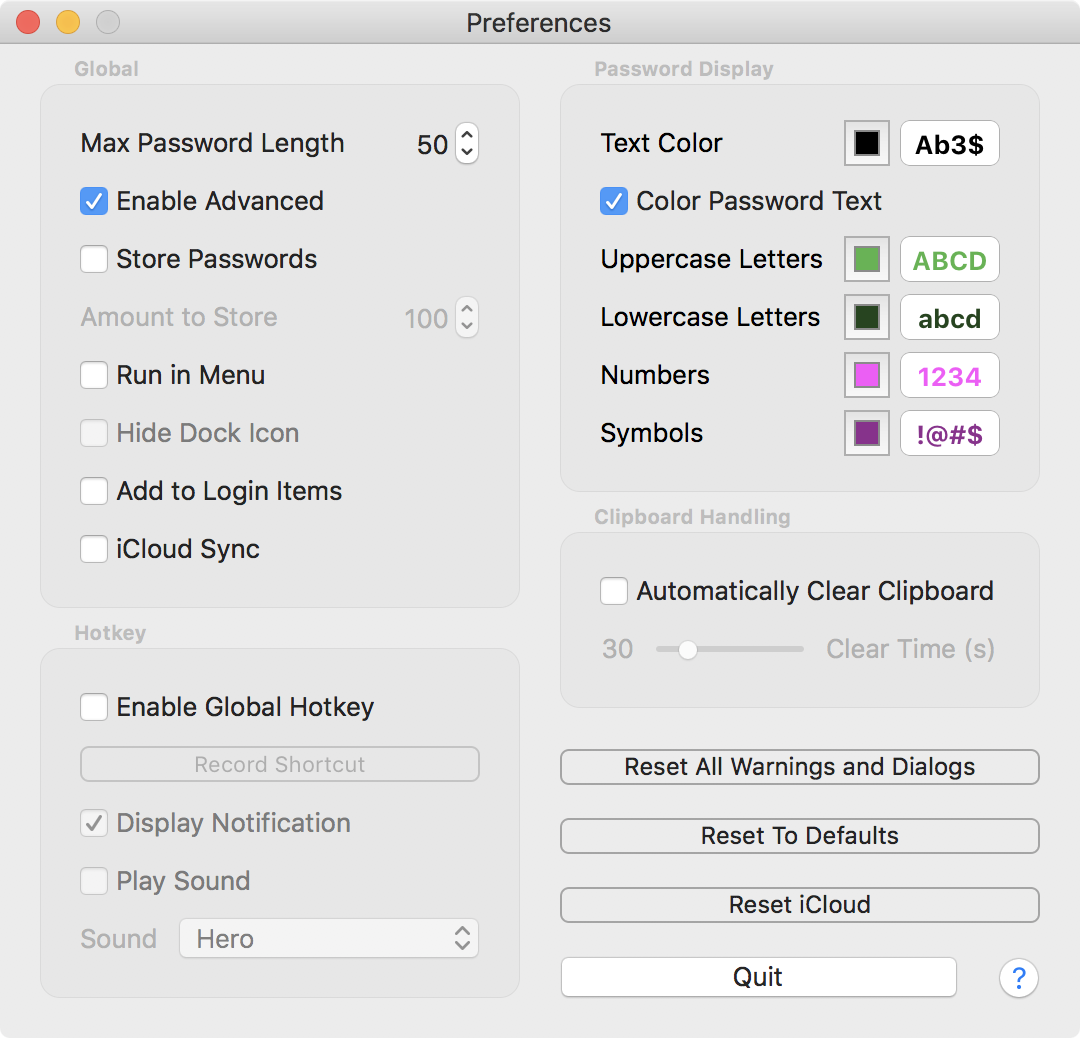
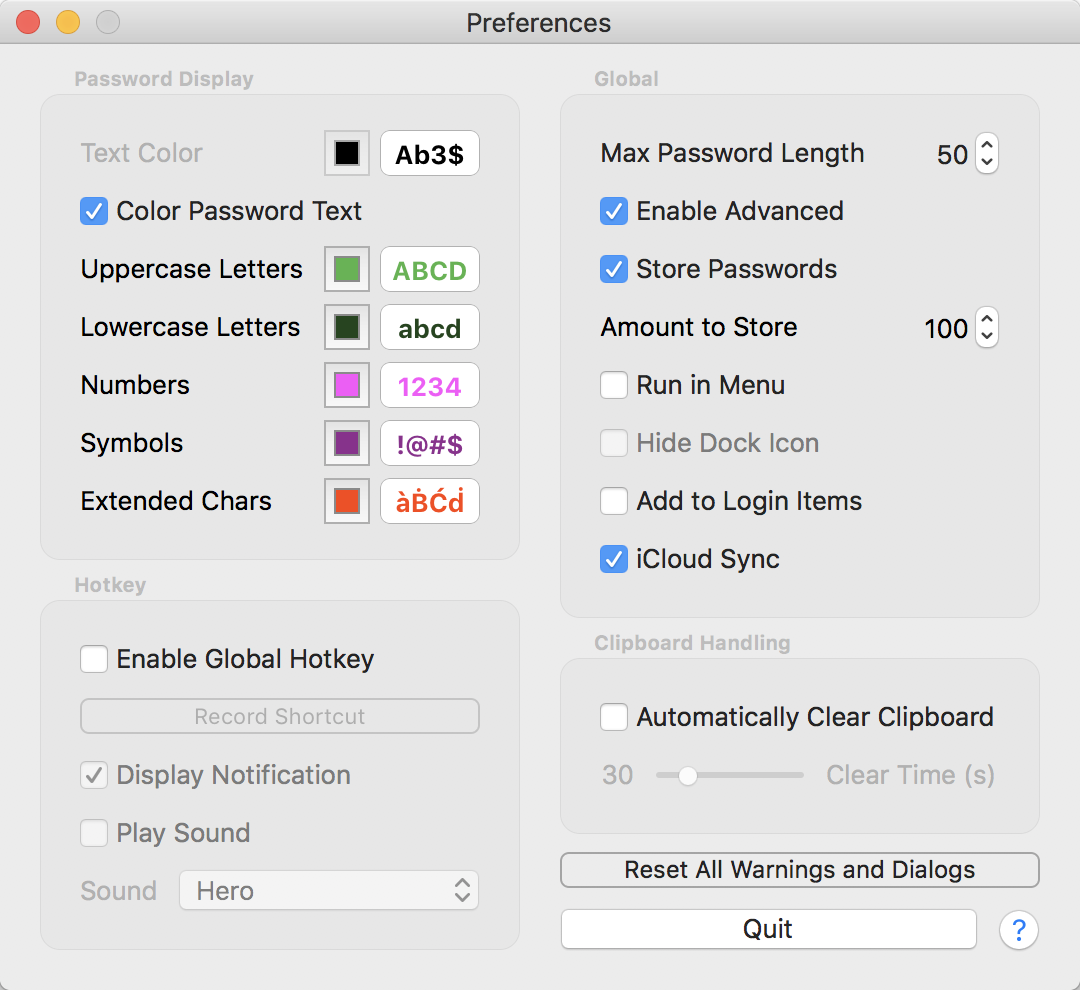
changed some defaults updated help

diff --git a/Password Factory/Assets/PasswordFactory.help/Contents/Resources/en.lproj/index.html b/Password Factory/Assets/PasswordFactory.help/Contents/Resources/en.lproj/index.html
@@ -13,7 +13,7 @@
 
 <body data-spy="scroll" data-target=".navbar" data-offset="50">
     <div class="container-fluid">
-        <nav class="navbar navbar-expand-sm dark-background navbar-dark fixed-top">
+        <nav class="navbar navbar-expand-sm navbar-dark fixed-top">
             <a class="navbar-brand" href="#help_top">
                 <img src="gfx/icon.png" alt="Password Factory" style="width:40px" />
             </a>
@@ -62,6 +62,7 @@
                         <div class="dropdown-menu scrollable-menu">
                             <a class="dropdown-item" href="#preferences">Top</a>
                             <div class="dropdown-divider"></div>
+                            <a class="dropdown-item" href="#preferences_password_display">Password Display</a>
                             <a class="dropdown-item" href="#preferences_global">Global</a>
                             <a class="dropdown-item" href="#preferences_max_password">Max Password Length</a>
                             <a class="dropdown-item" href="#preferences_enable_advanced">Enable Advanced</a>
@@ -69,7 +70,6 @@
                             <a class="dropdown-item" href="#preferences_run_in_menu">Run in Menu</a>
                             <a class="dropdown-item" href="#preferences_login">Add to Login Items</a>
                             <a class="dropdown-item" href="#preferences_icloud">iCloud Sync</a>
-                            <a class="dropdown-item" href="#preferences_password_display">Password Display</a>
                             <a class="dropdown-item" href="#preferences_hotkey">Hotkey</a>
                             <a class="dropdown-item" href="#preferences_clipboard">Clipboard</a>
                             <a class="dropdown-item" href="#preferences_reset">Reset</a>
@@ -90,6 +90,7 @@
                             <a class="dropdown-item" href="#transform_symbolize">Symbolize</a>
                             <a class="dropdown-item" href="#transform_accenter">Accenter</a>
                             <a class="dropdown-item" href="#emojis_and_extended">Emojis and Extended Characters</a>
+                            <a class="dropdown-item" href="#alerts">Warnings and Alerts</a>
                             <a class="dropdown-item" href="#icloud_sync">iCloud Sync</a>
                             <a class="dropdown-item" href="#touchbar">Touch Bar</a>
                         </div>
@@ -101,7 +102,7 @@
             </div>
         </nav>
         <div class="row" id="help_top">
-            <div class="col dark-background border border-top-0 border-left-0 border-right-0">
+            <div class="col">
                 <h1 class="p-3 text-white">Password Factory</h1>
             </div>
         </div>
@@ -424,6 +425,24 @@
                             Preferences Window
                             </div>
                         </div>
+                        <section class="mt-4" id="preferences_password_display">
+                            <h3>Password Display</h3>
+                            <p>The password display section controls how the password is shown in the app. If 'Color Password Text" is checked the characters in the password will be colored. Coloring the password text will enable you to easily distinguish between similar characters. You can change the color of each character type by clicking on the color boxes and selecting a new color.</p>
+                            <dl class="row">
+                                <dt class="col-sm-3 text-right">Text Color</dt>
+                                <dd class="col-sm-9">Color of text when 'Color Password Text' is disabled</dd>
+                                <dt class="col-sm-3 text-right">Uppercase Letters</dt>
+                                <dd class="col-sm-9">A - Z</dd>
+                                <dt class="col-sm-3 text-right">Lowercase Letters</dt>
+                                <dd class="col-sm-9">a - z</dd>
+                                <dt class="col-sm-3 text-right">Numbers</dt>
+                                <dd class="col-sm-9">0 - 9</dd>
+                                <dt class="col-sm-3 text-right"><a href="#symbol_characters">Symbols</a></dt>
+                                <dd class="col-sm-9">Symbols such as $#%^</dd>
+                                <dt class="col-sm-3 text-right"><a href="#emojis_and_extended">Extended Chars</a></dt>
+                                <dd class="col-sm-9">Accented characters and symbols</dd>
+                            </dl>
+                        </section>
                         <section class="mt-4" id="preferences_global">
                             <h3>Global</h3>
                             <p>This section contains all of the global settings for the application.</p>
@@ -443,10 +462,6 @@
                             </p>
                             <h4 id="preferences_icloud">iCloud Sync</h4>
                             <p>Checking iCloud Sync will sync all your passwords and settings to iCloud and will be available to all your macOS and iOS devices running Password Factory. See <a href="#icloud_sync">iCloud Sync</a> for more information.</p>
-                        </section>
-                        <section class="mt-4" id="preferences_password_display">
-                            <h3>Password Display</h3>
-                            <p>The password display section controls how the password is shown in the app. If 'Color Password Text" is checked the characters in the password will be colored. Coloring the password text will enable you to easily distinguish between similar characters. You can change the color of each character type by clicking on the color boxes and selecting a new color. The 'Text Color' item is the color of the text when it is not highlighted, and it also is the color of any character type that is not specified.</p>
                         </section>
                         <section class="mt-4" id="preferences_hotkey">
                             <h3>Generate and Copy Hotkey</h3>
@@ -473,13 +488,7 @@
                         </section>
                         <section class="mt-4" id="preferences_reset">
                             <h3>Reset</h3>
-                            <p>The three reset buttons allow for resetting different parts of the application.</p>
-                            <h4>Reset All Warnings and Dialogs</h4>
-                            <p>Using this will show all hidden warnings and dialogs.</p>
-                            <h4>Reset to Defaults</h4>
-                            <p>Resetting to defaults will reset all preferences to their default values. All stored passwords will be deleted. And if iCloud is enabled, all stored preferences will be reset to default, and all passwords stored in iCloud will be deleted.</p>
-                            <h4>Reset iCloud</h4>
-                            <p>This will reset all iCloud preferences to the default values, and will delete all stored iCloud passwords. If iCloud Sync is enabled, then all local preferences will also be reset.</p>
+                            <p>Clicking 'Reset All <a href="#alerts">Warnings and Dialogs</a> will show all hidden <a href="#alerts">warnings and alerts</a></p>
                         </section>
                     </div>
                 </section>
@@ -696,6 +705,16 @@
                             <section class="mt-4" id="emojis_and_extended">
                                 <h3>Emojis and Extended Characters</h3>
                                 <p>Password Factory has support for emojis and extended characters. An extended character is a character that is not in the standard Latin alphabet, plus numbers, and standard symbolic characters. Although emojis and extended characters will create a stronger password, not all systems support using these characters. Always take caution when using emojis or extended characters and if possible test your password against the login system first.</p>
+                            </section>
+                            <section class="mt-4" id="alerts">
+                                <h3>iCloud Sync</h3>
+                                <div class="m-3 card w-75 mx-auto">
+                                    <img alt="Alert Window" class="card-img-top rounded" src="gfx/alert.png" />
+                                    <div class="card-footer text-center">
+                                        Alert Window
+                                    </div>
+                                </div>
+                                <p>Alerts are shown when there is a warning about the current action, or there is an application error. Clicking 'Cancel' will stop the current action and return the application back to the previous state. 'OK' will continue with the current action, or simply dismiss the window. Some alerts can be hidden, by clicking 'Do not show this message again', that alert will not be shown again.</p>
                             </section>
                             <section class="mt-4" id="icloud_sync">
                                 <h3>iCloud Sync</h3>

diff --git a/Password Factory/Assets/PasswordFactory.help/Contents/Resources/en.lproj/sty/style.css b/Password Factory/Assets/PasswordFactory.help/Contents/Resources/en.lproj/sty/style.css
@@ -2,14 +2,19 @@
 p {
   font-size: 1.2rem;
 }
-
 div.strength-gradient {
     background: linear-gradient(to right, #ED2C16,#EC8320,#EBCE29,#EBCE29,#BFE631,#76E53A,#35E557,#3FE6A4,#48E8E2,#54BBEA,#5F86EA,#846FEA);
     height: 50px;
     border-radius: 5px;
 }
 body {
-  padding-top: 60px;
+    padding-top: 60px;
+    background-color: #1B2133;
+    background-image: url(../gfx/icon-transparent.png);
+    background-repeat: no-repeat;
+    background-position-x: center;
+    background-position-y: 70vh;
+    background-attachment: fixed
 }
 
 .card {
@@ -22,11 +27,18 @@ body {
     background-color: #FCFCFD;
     color: #C1C6C8;
 }
+div.content {
+    background-color: #FFF;
+}
+div#support {
+    background-color: transparent;
+}
 div.content a {
     color: #3F7A5F;
 }
-.dark-background {
+nav {
     background-color: #1B2133;
+
 }
 div.row-header {
     background-color: #2F4044;
@@ -123,13 +135,9 @@ li.color_well strong {
     border-radius: 5px;
 }
 div#support {
-    overflow: hidden;
-    background-color: #1B2133;
+
     color: #6A9099;
-    background-image: url(../gfx/icon-transparent.png);
-    background-repeat: no-repeat;
-    background-position-x: center;
-    background-position-y: center;
+
 
 }
 div.icon-row {
@@ -193,6 +201,10 @@ dt::after {
         height: auto;
         max-height: 220px;
         overflow-x: hidden;
+    }
+    body {
+        background-position-y: 50vh;
+
     }
 
 }
